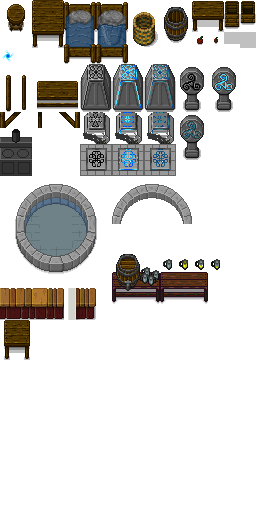
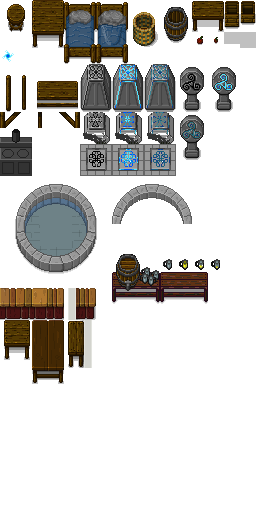
wip: inn kitchen art and placement

Changed region(s): [[0.125, 0.625, 0.375, 0.75]]

diff --git a/js/worldGen.js b/js/worldGen.js
@@ -3038,7 +3038,7 @@ class WorldGen {
                     "0000","0000","0000","0000","0000","0000","0000","0000","0000","0000","0000","002s","0000","0000","0000","0000","0000","0000","0000","0000","0000","0000","0029","0000",
                     "0000","002u","002t","002t","002t","002t","002t","002t","002v","0000","0000","0000","0000","0000","0000","002a","0000","0000","0000","0000","0000","0000","0029","0000",
                     "0000","0028","0o02","0000","0o02","0000","0o02","0000","0000","0000","0000","0000","0000","0000","0000","0000","0000","0000","0000","0000","0000","0000","0029","0000",
-                    "0000","0028","0000","0000","0000","0000","0000","0000","0000","0000","0000","0000","0000","0000","0000","002m","0000","0000","0000","0000","0000","0000","0029","0000",
+                    "0000","0028","0000","0000","0000","0000","0000","0000","0000","0000","0000","0000","0000","0000","0000","002m","0000","0000","002z","0000","0000","002A","0029","0000",
                     "0000","0028","0000","0000","0000","0000","0000","0000","0000","0000","0000","0000","0000","0000","0000","0000","0000","0000","0000","0000","0000","0000","0000","0000",
                     "0000","0028","0o02","0000","0000","0000","0o02","0000","0000","0000","0000","0o02","0000","0000","0000","0000","0000","0000","0000","0000","0000","0000","0000","0000",
                     "0000","0000","0000","0000","002x","0000","0000","0000","0000","0000","0000","0000","0000","002x","0000","0000","002l","002g","0000","0000","0000","002l","0000","0000",

diff --git a/js/sparkAssets.js b/js/sparkAssets.js
@@ -329,6 +329,8 @@ class SparkAssets {
                 Templates.xsprite("bar.beerstand",      7, 15, { width: 16*3, height: 16*4 }),
                 Templates.xsprite("bar.stand",          10, 17, { width: 16*3, height: 16*2 }),
                 Templates.xsprite("bar.smtable",        0, 20, { width: 16*2, height: 16*3 }),
+                Templates.xsprite("bar.lgtable",        2, 20, { width: 16*2, height: 16*4 }),
+                Templates.xsprite("bar.sidetable",      4, 20, { width: 16*2, height: 16*3 }),
             ]},
 
             { src: "img/vendor.png", loader: "Sheet", refs: [
@@ -775,6 +777,8 @@ class SparkAssets {
             Templates.tile("02w", "bar.beerstand",      {offx: 16, offy: -28, xcollider: {width:48, offy: 16}}),
             Templates.tile("02x", "bar.smtable",        {offx: 8, offy: -16, xcollider: {width: 20, offy:-4}}),
             Templates.tile("02y", "bar.stand",          {offx: 16, offy: -12, xcollider: {width:48}}),
+            Templates.tile("02z", "bar.lgtable",        {offx: 8, offy: -24, xcollider: {width: 30, height: 48, offy:0}}),
+            Templates.tile("02A", "bar.sidetable",      {offx: 8, offy: -16, xcollider: {width: 20, height: 40, offy:-4}}),
 
             Templates.object("o00", "sparkbase", "SparkBase", { 
                 powered: true,
